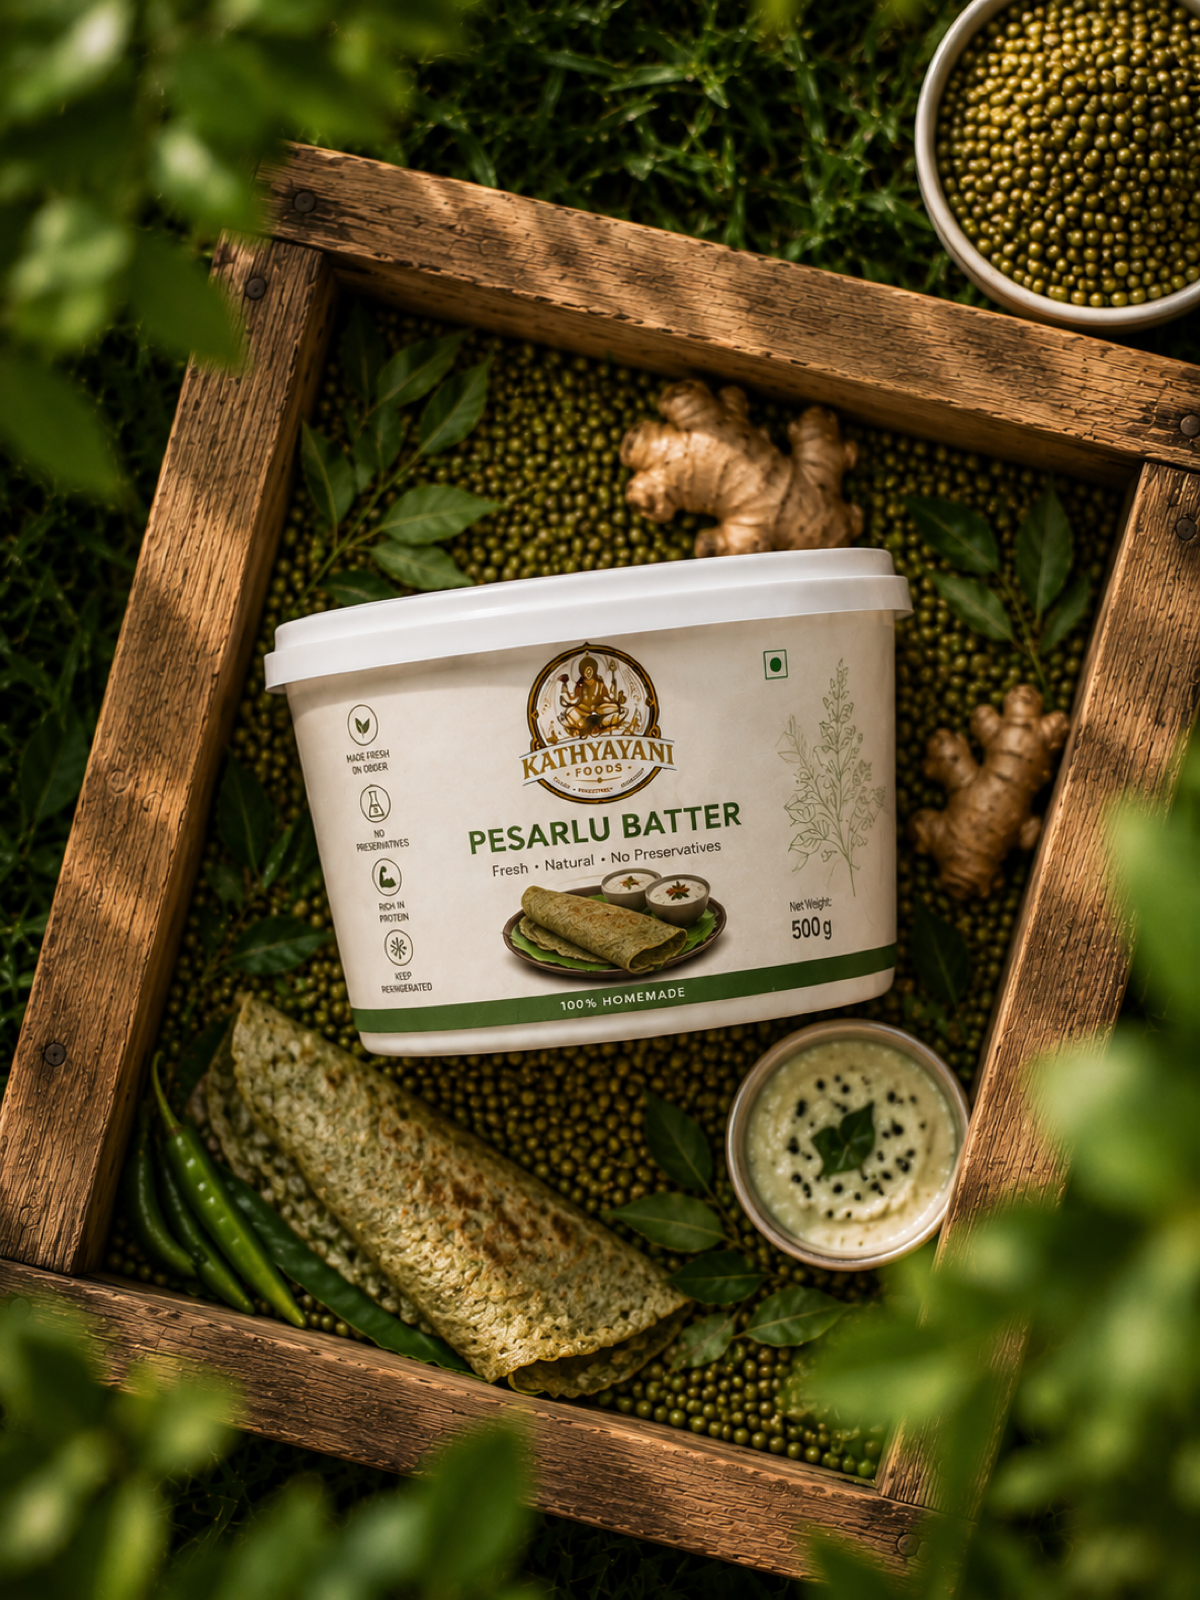
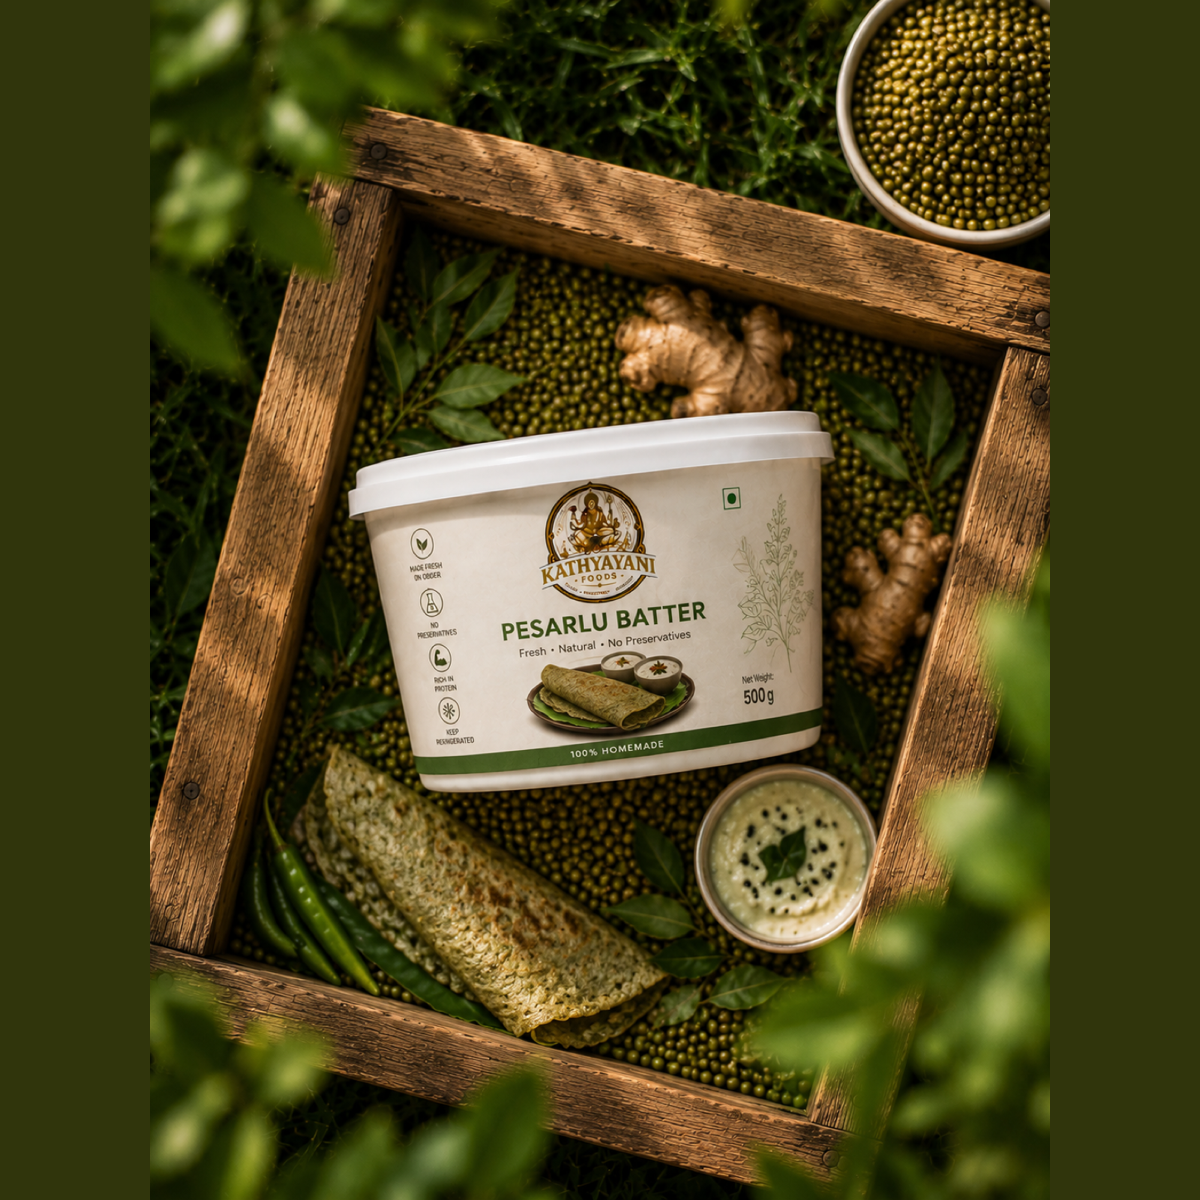
fix: standardize all 16 product images to 1200x1200 square canvas and set 1:1 modal slide ratio

diff --git a/styles.css b/styles.css
@@ -931,13 +931,13 @@ a {
   gap: 18px;
 }
 
-/* Carousel (Responsive height & uncropped object-fit: contain) */
+/* Carousel (1:1 Square Ratio matching 1200x1200 pixel-perfect images) */
 .pdp-carousel-wrapper {
   position: relative;
   width: 100%;
   border-radius: var(--radius-md);
   overflow: hidden;
-  background-color: #E8DFCC;
+  background-color: var(--color-parchment-card);
   border: 1px solid var(--color-parchment-border);
 }
 
@@ -957,23 +957,20 @@ a {
 .pdp-slide {
   flex: 0 0 100%;
   width: 100%;
-  height: clamp(260px, 40vh, 340px);
+  aspect-ratio: 1 / 1;
+  max-height: 380px;
   scroll-snap-align: center;
   position: relative;
   display: flex;
   align-items: center;
   justify-content: center;
-  background-color: #E8DFCC;
-  padding: 6px;
+  background-color: var(--color-parchment-card);
 }
 
 .pdp-slide img {
-  max-width: 100%;
-  max-height: 100%;
-  width: auto;
-  height: auto;
-  object-fit: contain;
-  border-radius: var(--radius-sm);
+  width: 100%;
+  height: 100%;
+  object-fit: cover;
   display: block;
 }
 
